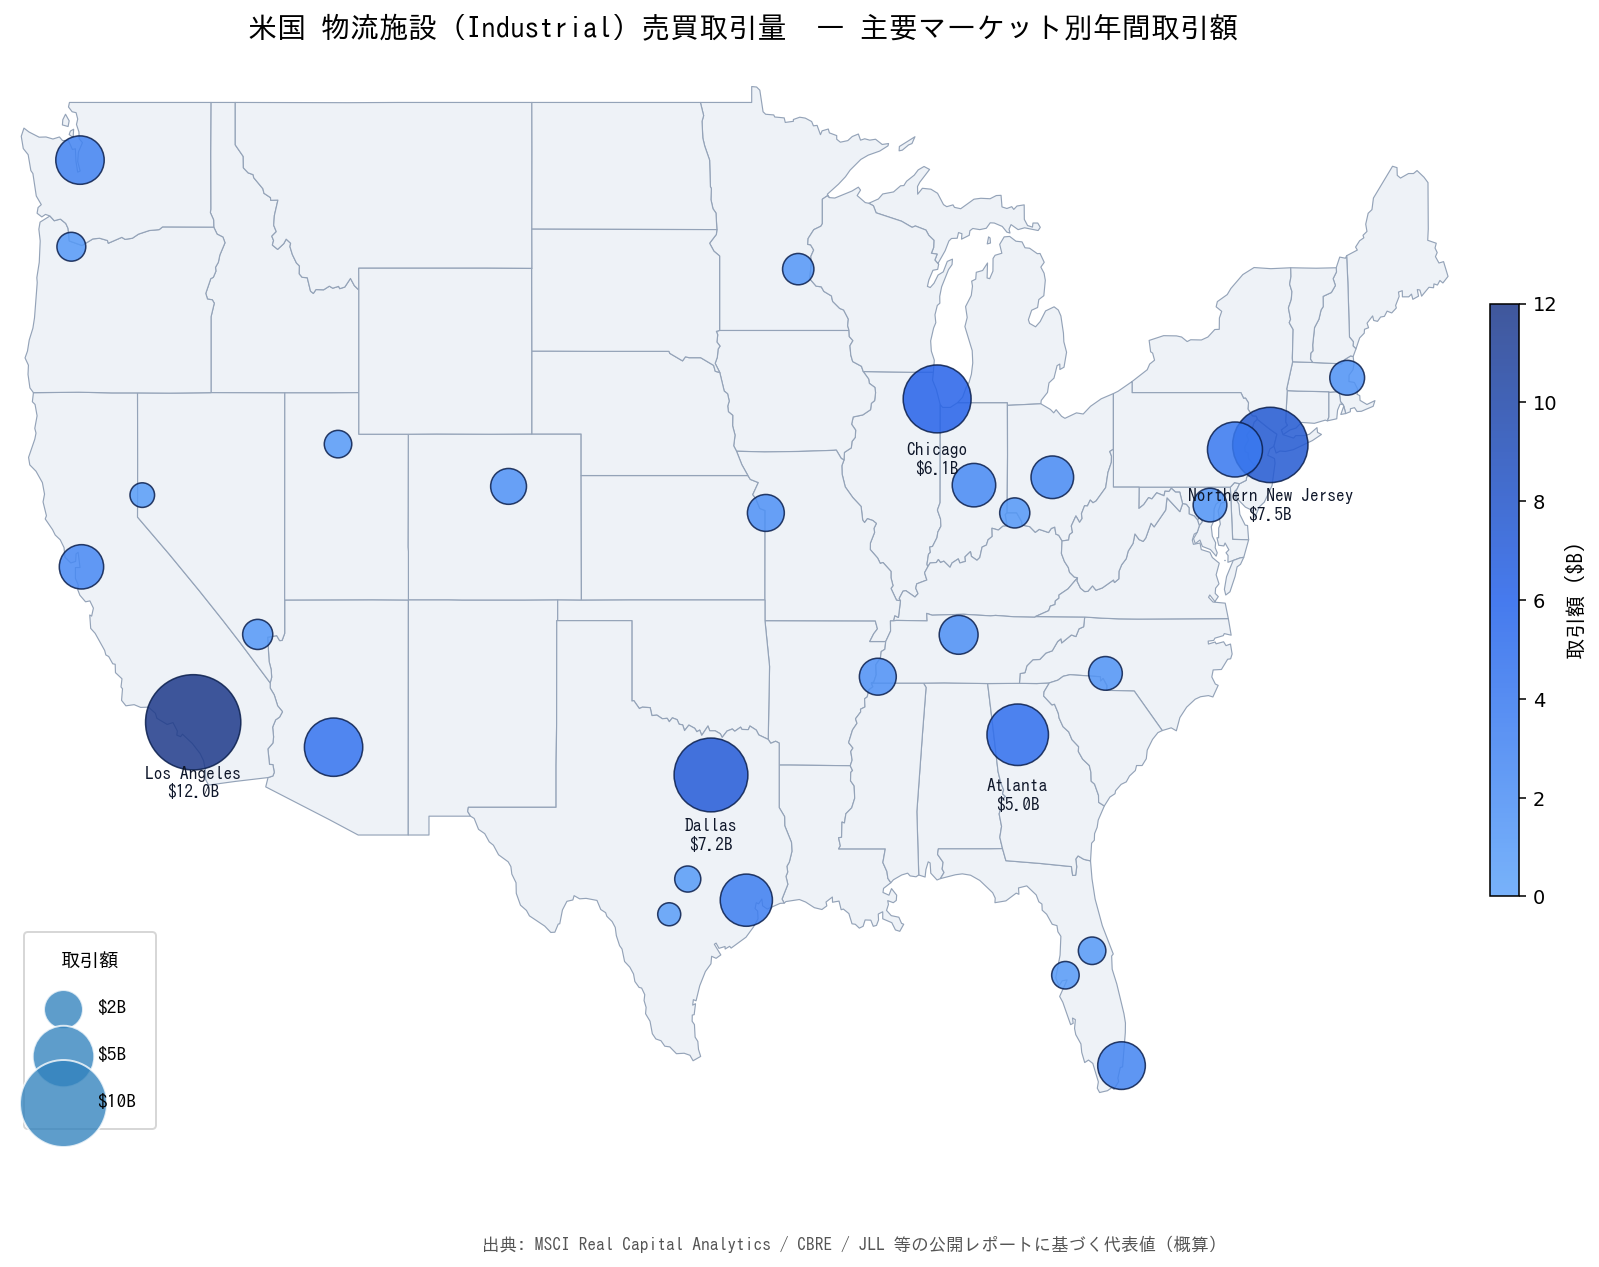
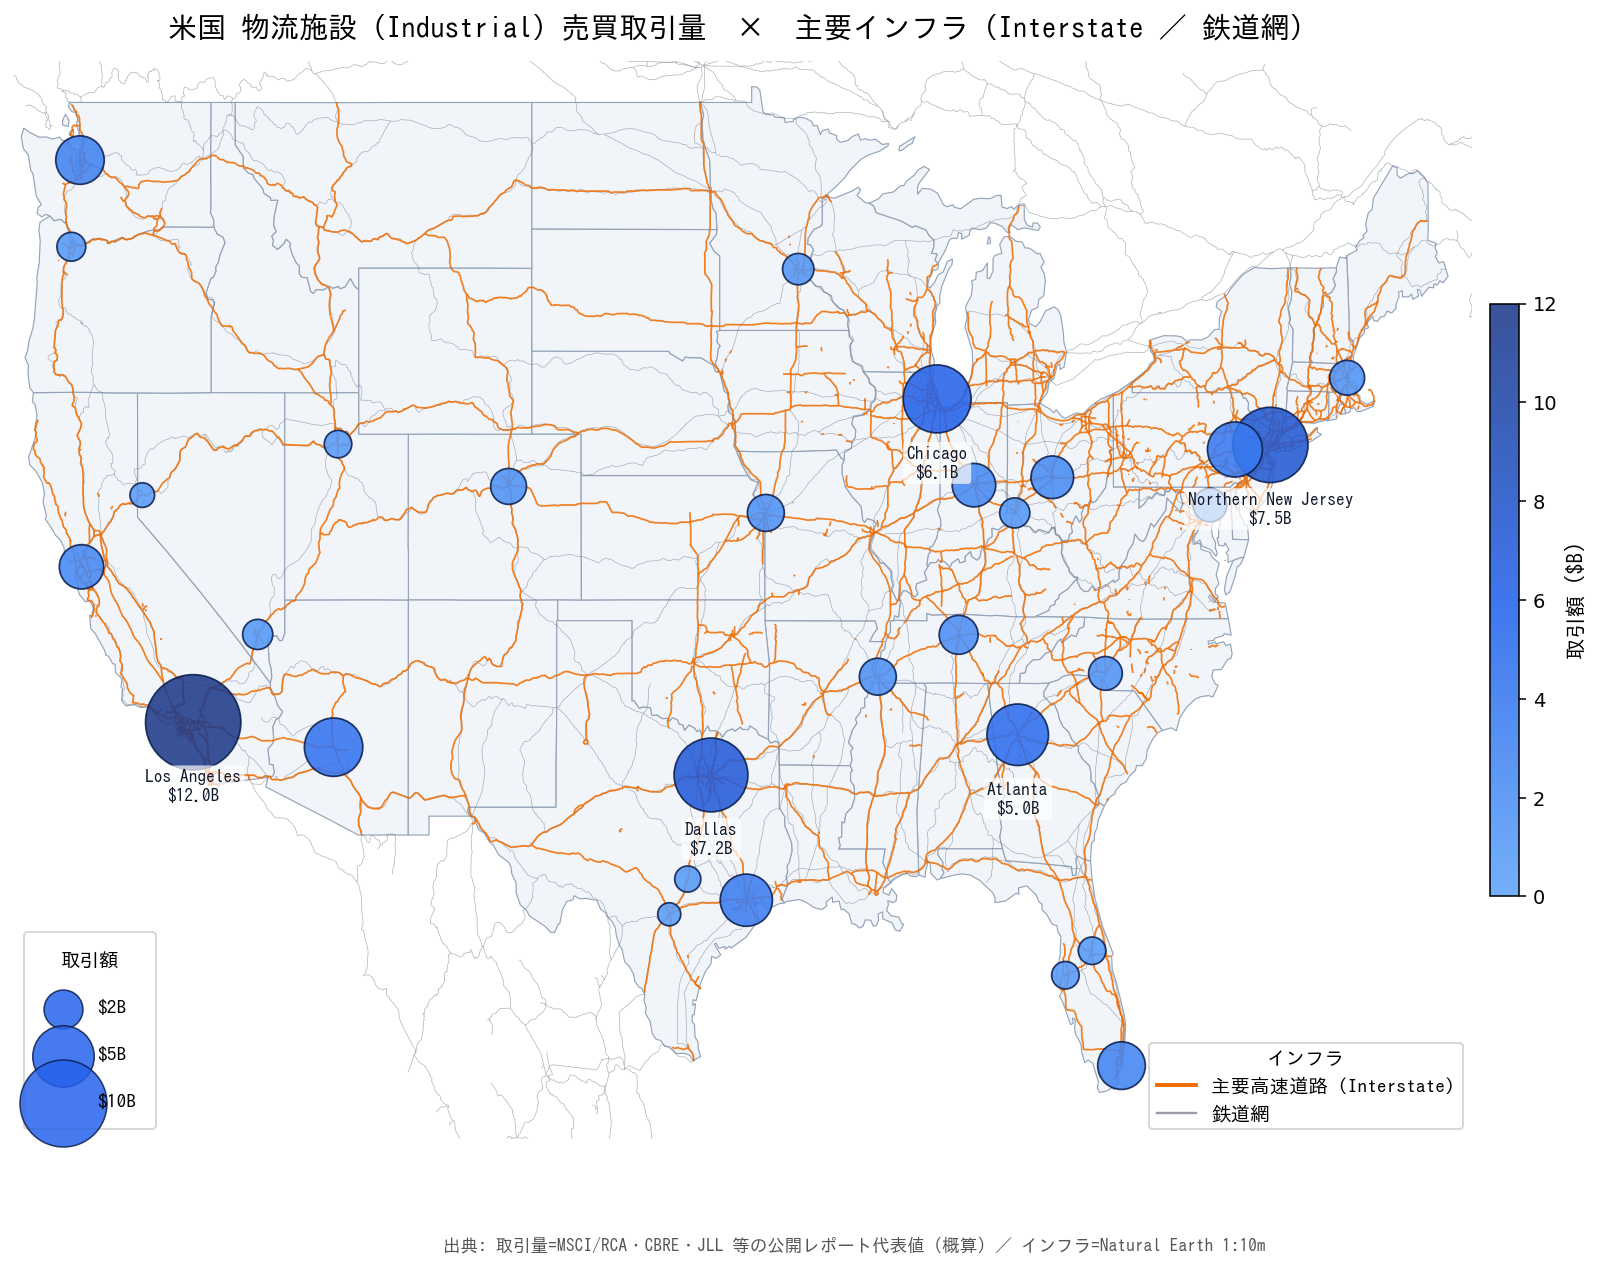
Overlay rail network and major highways on transactions map
Adds two infrastructure layers sourced from Natural Earth 1:10m:
- Major Highway (Interstate equivalent) in orange (~2k US segments)
- Rail network in gray (~1k segments in lower-48 bbox)

Lets a viewer see how industrial transaction volume clusters follow
the backbone of US logistics infrastructure.

diff --git a/build_map_png.py b/build_map_png.py
@@ -1,5 +1,8 @@
 #!/usr/bin/env python3
-"""米国 物流施設（Industrial）売買取引量マップを PNG で出力"""
+"""米国 物流施設（Industrial）売買取引量マップを PNG で出力
+   - 州境、主要Interstate（Major Highway）、鉄道網を背景に重ねる
+   - 主要マーケットの年間取引額を円サイズで表現
+"""
 import json
 from pathlib import Path
 
@@ -7,12 +10,13 @@ import matplotlib
 matplotlib.use("Agg")
 import matplotlib.pyplot as plt
 from matplotlib.patches import Polygon as MplPolygon
-from matplotlib.collections import PatchCollection
+from matplotlib.collections import PatchCollection, LineCollection
+from matplotlib.colors import LinearSegmentedColormap
+from matplotlib.lines import Line2D
 import matplotlib.font_manager as fm
 
 # 日本語フォント
-jp_font_path = "/usr/share/fonts/opentype/ipafont-gothic/ipag.ttf"
-jp_font = fm.FontProperties(fname=jp_font_path)
+jp_font = fm.FontProperties(fname="/usr/share/fonts/opentype/ipafont-gothic/ipag.ttf")
 
 # 主要米国産業用不動産マーケット（年間取引額 $B, MSCI/RCA・CBRE・JLL 等の公開資料より）
 markets = [
@@ -48,106 +52,142 @@ markets = [
     ("San Antonio",                 29.42,  -98.49,  0.7),
 ]
 
-# US states GeoJSON 読み込み
-geo = json.loads(Path("/tmp/us_states.json").read_text())
+# 本土 bbox
+BBOX = (-125, 24, -66, 50)  # west, south, east, north
 
+def in_bbox(lon, lat):
+    return BBOX[0] <= lon <= BBOX[2] and BBOX[1] <= lat <= BBOX[3]
+
+def line_in_bbox(coords):
+    return any(in_bbox(x, y) for x, y in coords)
+
+# --- 州ポリゴン ---
+geo = json.loads(Path("/tmp/us_states.json").read_text())
+EXCLUDE = {"Alaska", "Hawaii", "Puerto Rico"}
+state_patches = []
+for feat in geo["features"]:
+    if feat["properties"]["name"] in EXCLUDE:
+        continue
+    g = feat["geometry"]
+    polys = g["coordinates"] if g["type"] == "MultiPolygon" else [g["coordinates"]]
+    for poly in polys:
+        state_patches.append(MplPolygon(poly[0], closed=True))
+
+# --- 鉄道（Natural Earth, 北米→US bbox フィルタ）---
+rail = json.loads(Path("/tmp/ne_rail.json").read_text())
+rail_segments = []
+for f in rail["features"]:
+    if f["properties"].get("continent") != "North America":
+        continue
+    g = f["geometry"]
+    lines = g["coordinates"] if g["type"] == "MultiLineString" else [g["coordinates"]]
+    for line in lines:
+        if line_in_bbox(line):
+            rail_segments.append(line)
+
+# --- 主要高速道路（Interstate 相当: 'Major Highway' かつ US） ---
+roads = json.loads(Path("/tmp/ne_roads.json").read_text())
+hwy_segments = []
+for f in roads["features"]:
+    p = f["properties"]
+    if p.get("sov_a3") != "USA":
+        continue
+    if p.get("type") != "Major Highway":
+        continue
+    g = f["geometry"]
+    lines = g["coordinates"] if g["type"] == "MultiLineString" else [g["coordinates"]]
+    for line in lines:
+        if line_in_bbox(line):
+            hwy_segments.append(line)
+
+# --- 描画 ---
 fig, ax = plt.subplots(figsize=(16, 10), dpi=140)
 
-# 州ポリゴンを描画（アラスカ・ハワイ・プエルトリコは除外して本土のみ表示）
-EXCLUDE = {"Alaska", "Hawaii", "Puerto Rico"}
-patches = []
-for feat in geo["features"]:
-    name = feat["properties"]["name"]
-    if name in EXCLUDE:
-        continue
-    geom = feat["geometry"]
-    coords_list = geom["coordinates"]
-    if geom["type"] == "Polygon":
-        coords_list = [coords_list]
-    for poly in coords_list:
-        ring = poly[0]
-        patches.append(MplPolygon(ring, closed=True))
-
-pc = PatchCollection(patches, facecolor="#eef2f7", edgecolor="#94a3b8", linewidths=0.6)
+# 州
+pc = PatchCollection(state_patches, facecolor="#f1f4f9",
+                     edgecolor="#94a3b8", linewidths=0.6, zorder=1)
 ax.add_collection(pc)
 
-# バブル（面積が取引量に比例）
+# 鉄道（薄い灰色、細線）
+rail_lc = LineCollection(rail_segments, colors="#6b7280",
+                         linewidths=0.35, alpha=0.55, zorder=2)
+ax.add_collection(rail_lc)
+
+# 高速道路（オレンジ系、やや太線）
+hwy_lc = LineCollection(hwy_segments, colors="#ef6c00",
+                        linewidths=0.9, alpha=0.85, zorder=3)
+ax.add_collection(hwy_lc)
+
+# バブル（取引額）
 max_vol = max(m[3] for m in markets)
-# 面積 s (matplotlib scatter is area in points^2)
-size_scale = 2400.0 / max_vol  # 最大バブルを s≈2400pt^2
+size_scale = 2400.0 / max_vol
+cmap = LinearSegmentedColormap.from_list("ind", ["#60a5fa", "#2563eb", "#1e3a8a"])
 
 lats = [m[1] for m in markets]
 lons = [m[2] for m in markets]
 vols = [m[3] for m in markets]
 sizes = [v * size_scale for v in vols]
 
-from matplotlib.colors import LinearSegmentedColormap
-cmap = LinearSegmentedColormap.from_list(
-    "ind", ["#60a5fa", "#2563eb", "#1e3a8a"]
-)
-sc = ax.scatter(
-    lons, lats,
-    s=sizes,
-    c=vols,
-    cmap=cmap,
-    vmin=0, vmax=max_vol,
-    alpha=0.85,
-    edgecolor="#0b1f4d",
-    linewidth=0.8,
-    zorder=3,
-)
+sc = ax.scatter(lons, lats, s=sizes, c=vols, cmap=cmap,
+                vmin=0, vmax=max_vol, alpha=0.88,
+                edgecolor="#0b1f4d", linewidth=0.9, zorder=5)
 
-# 上位5マーケットにラベル
+# 上位5マーケットのラベル
 top5 = sorted(markets, key=lambda m: -m[3])[:5]
 for name, lat, lon, vol in top5:
     short = name.split(" / ")[0].split("–")[0]
     ax.annotate(
         f"{short}\n${vol:.1f}B",
-        xy=(lon, lat),
-        xytext=(0, -22),
-        textcoords="offset points",
-        ha="center", va="top",
-        fontsize=9,
-        color="#0f172a",
-        fontproperties=jp_font,
-        zorder=4,
+        xy=(lon, lat), xytext=(0, -24), textcoords="offset points",
+        ha="center", va="top", fontsize=9, color="#0f172a",
+        fontproperties=jp_font, zorder=6,
+        bbox=dict(boxstyle="round,pad=0.2", fc="white", ec="none", alpha=0.7),
     )
 
-# カラーバー
+# カラーバー（取引額）
 cbar = plt.colorbar(sc, ax=ax, shrink=0.55, pad=0.01)
 cbar.set_label("取引額 ($B)", fontproperties=jp_font, fontsize=11)
 
-# 凡例（円サイズ）
-legend_vols = [2, 5, 10]
-for i, v in enumerate(legend_vols):
-    ax.scatter([], [], s=v * size_scale, c="#3182bd", alpha=0.78,
-               edgecolor="white", linewidth=1.0, label=f"${v}B")
-leg = ax.legend(
-    scatterpoints=1, frameon=True, labelspacing=1.6,
-    title="取引額", loc="lower left", borderpad=1.0,
-)
-leg.get_title().set_fontproperties(jp_font)
-for text in leg.get_texts():
-    text.set_fontproperties(jp_font)
+# 凡例 1: バブルサイズ
+bubble_handles = [
+    plt.scatter([], [], s=v * size_scale, c="#2563eb",
+                edgecolor="#0b1f4d", linewidth=0.8, alpha=0.85, label=f"${v}B")
+    for v in (2, 5, 10)
+]
+# 凡例 2: 線種
+line_handles = [
+    Line2D([0], [0], color="#ef6c00", lw=2.0, label="主要高速道路 (Interstate)"),
+    Line2D([0], [0], color="#6b7280", lw=1.2, alpha=0.7, label="鉄道網"),
+]
 
-# 本土の表示範囲
-ax.set_xlim(-125, -66)
-ax.set_ylim(24, 50)
+leg1 = ax.legend(handles=bubble_handles, title="取引額",
+                 loc="lower left", labelspacing=1.6, borderpad=1.0, frameon=True)
+leg1.get_title().set_fontproperties(jp_font)
+for t in leg1.get_texts(): t.set_fontproperties(jp_font)
+ax.add_artist(leg1)
+
+leg2 = ax.legend(handles=line_handles, title="インフラ",
+                 loc="lower right", frameon=True)
+leg2.get_title().set_fontproperties(jp_font)
+for t in leg2.get_texts(): t.set_fontproperties(jp_font)
+
+# 表示範囲
+ax.set_xlim(BBOX[0], BBOX[2])
+ax.set_ylim(BBOX[1], BBOX[3])
 ax.set_aspect("auto")
 ax.set_xticks([]); ax.set_yticks([])
-for spine in ax.spines.values():
-    spine.set_visible(False)
+for sp in ax.spines.values(): sp.set_visible(False)
 
 ax.set_title(
-    "米国 物流施設（Industrial）売買取引量  ― 主要マーケット別年間取引額",
+    "米国 物流施設（Industrial）売買取引量  ×  主要インフラ（Interstate ／ 鉄道網）",
     fontproperties=jp_font, fontsize=15, pad=12,
 )
 fig.text(
     0.5, 0.03,
-    "出典: MSCI Real Capital Analytics / CBRE / JLL 等の公開レポートに基づく代表値（概算）",
+    "出典: 取引量=MSCI/RCA・CBRE・JLL 等の公開レポート代表値（概算）／ インフラ=Natural Earth 1:10m",
     ha="center", fontproperties=jp_font, fontsize=9, color="#555",
 )
 
 out = Path("/home/user/Claude/us_industrial_transactions_map.png")
 plt.savefig(out, bbox_inches="tight", facecolor="white")
-print(f"saved: {out}")
+print(f"saved: {out}  rail={len(rail_segments)} hwy={len(hwy_segments)}")
